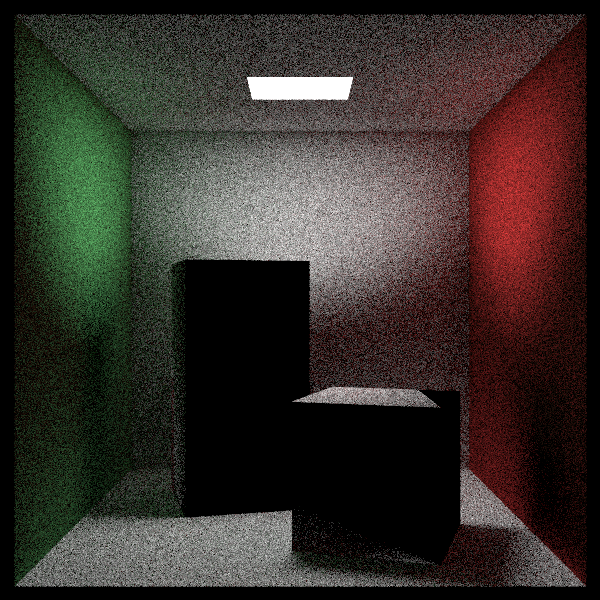
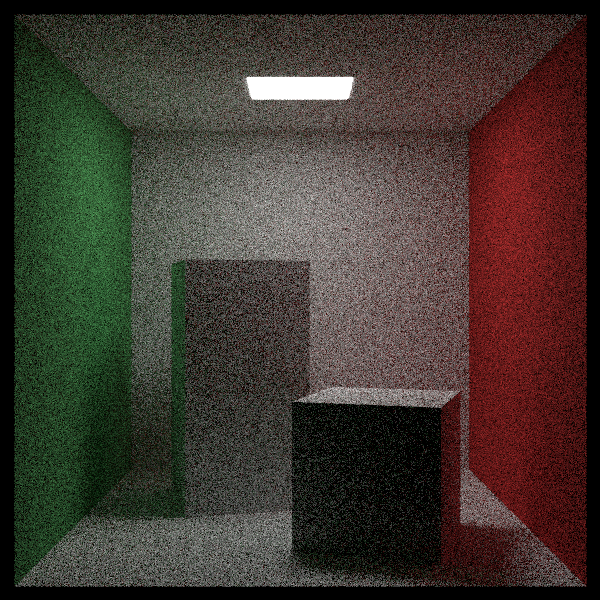
fix: Merge Error + Gen final image

diff --git a/src/objects/cube.rs b/src/objects/cube.rs
@@ -83,17 +83,23 @@ impl Cube {
         Cube { sides }
     }
 
-    pub fn translate(&self, offset: Vector) -> Translation {
-        Translation::new(Arc::new(self.sides.clone()), offset)
+    pub fn translate(&mut self, offset: Vector) {
+        let translated = Translation::new(Arc::new(self.sides.clone()), offset);
+        let mut hittable_list = HittableList::new();
+        hittable_list.add_hittable(Arc::new(translated));
+        self.sides = hittable_list;
     }
 
-    pub fn rotate(&self, x_rotation: f64, y_rotation: f64, z_rotation: f64) -> Rotation {
-        Rotation::new(
+    pub fn rotate(&mut self, x_rotation: f64, y_rotation: f64, z_rotation: f64) {
+        let rotated = Rotation::new(
             Arc::new(self.sides.clone()),
             x_rotation,
             y_rotation,
             z_rotation,
-        )
+        );
+        let mut hittable_list = HittableList::new();
+        hittable_list.add_hittable(Arc::new(rotated));
+        self.sides = hittable_list;
     }
 
     pub fn to_hittable_list(self) -> HittableList {

diff --git a/src/scene/cornell_box_scene.rs b/src/scene/cornell_box_scene.rs
@@ -63,14 +63,6 @@ pub fn cornell_box_scene() -> Scene {
         light_material,
     );
 
-    let mut hittable_list: HittableList = HittableList::new();
-    hittable_list.add_hittable(Arc::new(top));
-    hittable_list.add_hittable(Arc::new(back));
-    hittable_list.add_hittable(Arc::new(bottom));
-    hittable_list.add_hittable(Arc::new(left));
-    hittable_list.add_hittable(Arc::new(right));
-    hittable_list.add_hittable(Arc::new(light_source));
-
     // NOTE: Original, unrotated and untranslated boxes
     // let box_1 = Cube::new(
     //     Point::new(130.0, 0.0, 65.0),
@@ -124,3 +116,4 @@ pub fn cornell_box_scene() -> Scene {
 
     Scene::new(hittable_list, camera)
 }
+

diff --git a/src/objects/quad.rs b/src/objects/quad.rs
@@ -1,4 +1,4 @@
-use std::{sync::Arc, thread::panicking};
+use std::sync::Arc;
 
 use crate::{
     bvh::aabb::{Aabb, merge_aabb},
